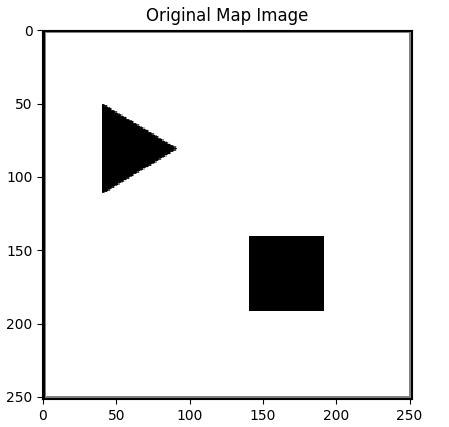
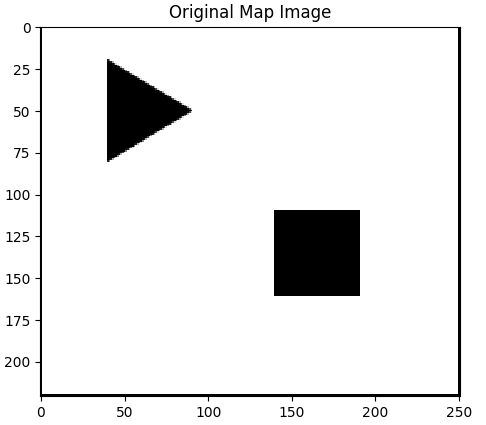
Last map was done. Now time to analyze the results.

Changed region(s): [[0.0, 0.0, 0.9666, 1.0], [0.2183, 0.1224, 0.4053, 0.4588], [0.5301, 0.4894, 0.7483, 0.7341]]

diff --git a/code/main.py b/code/main.py
@@ -1,6 +1,6 @@
 # Fix OpenCv2 configuration error with ROS
-import sys
-sys.path.remove("/opt/ros/kinetic/lib/python2.7/dist-packages")
+#import sys
+#sys.path.remove("/opt/ros/kinetic/lib/python2.7/dist-packages")
 
 import bcd  #The Boustrophedon Cellular decomposition
 import dfs  #The Depth-first Search Algorithm
@@ -16,7 +16,7 @@ import timeit
 if __name__ == '__main__':
     
     # Read the original data
-    original_map = bcd.cv2.imread("../data/real_ex3.png")
+    original_map = bcd.cv2.imread("../data/real_ex4.png")
     #original_map = cv2.imread("../data/example2.png")[:,0:350]
     
     # Show the original data
@@ -99,14 +99,37 @@ if __name__ == '__main__':
         7: [5,6]
     }
 
+    graph4 = { #graph4  is for real_ex4.png
+        1: [2,3],
+        2: [1,4],
+        3: [1,4],
+        4: [2,3,5,6],
+        5: [4,7],
+        6: [4,7],
+        7: [5,6,8,9],
+        8: [7,10],
+        9: [7,10],
+        10: [8,9,11,12],
+        11: [10,13],
+        12: [10,13],
+        13: [11,12,14,15],
+        14: [13,16],
+        15: [13,16],
+        16: [14,15,17,18],
+        17: [16,19],
+        18: [16,19],
+        19: [17,18]
+    }
+
+
     ########## DFS
     cleaned_DFS = [] #Keeps cleaned cell numbers in order
     iter_number = 1000
     #starting_cell_number = move_boustrophedon.randint(1,len(cell_numbers))
-    starting_cell_number = 5
+    starting_cell_number = 10
     print("Starting cell number: ", starting_cell_number)
-    exec_time_dfs = timeit.timeit('dfs.dfs(cleaned_DFS, graph3, starting_cell_number)', \
-        'from __main__ import dfs, cleaned_DFS, graph3, starting_cell_number',number = iter_number)
+    exec_time_dfs = timeit.timeit('dfs.dfs(cleaned_DFS, graph4, starting_cell_number)', \
+        'from __main__ import dfs, cleaned_DFS, graph4, starting_cell_number',number = iter_number)
     exec_time_dfs = exec_time_dfs/iter_number
     print("DFS Cleaned cells in order", cleaned_DFS)
     print("Execution time of dfs in seconds: ", exec_time_dfs)
@@ -124,8 +147,8 @@ if __name__ == '__main__':
     iter_number = 1000
     #starting_cell_number = move_boustrophedon.randint(1,len(cell_numbers))
     print("Starting cell number: ", starting_cell_number)
-    exec_time_bfs = timeit.timeit('bfs.bfs(cleaned_BFS, graph3, starting_cell_number)', \
-        'from __main__ import bfs, cleaned_BFS, graph3, starting_cell_number',number = iter_number)
+    exec_time_bfs = timeit.timeit('bfs.bfs(cleaned_BFS, graph4, starting_cell_number)', \
+        'from __main__ import bfs, cleaned_BFS, graph4, starting_cell_number',number = iter_number)
     exec_time_bfs = exec_time_bfs/iter_number
     print("BFS Cleaned cells in order", cleaned_BFS)
     print("Execution time of bfs in seconds: ", exec_time_bfs)
@@ -226,9 +249,9 @@ if __name__ == '__main__':
 
     
     ########## Path Tracking
-    # DFS
+    ## DFS
     #iter_number = 1
-    #dfs_path = [5, 4, 2, 1, 3, 6, 7]
+    #dfs_path = [10, 8, 7, 5, 4, 2, 1, 3, 6, 9, 11, 13, 12, 14, 16, 15, 17, 19, 18]
     #path_time_dfs = timeit.timeit('move_boustrophedon.track_paths(original_map,dfs_path,cell_boundaries,non_neighboor_cell_numbers)', \
     #                               'from __main__ import move_boustrophedon, \
     #                               dfs_path, original_map, cell_boundaries,non_neighboor_cell_numbers',number = iter_number)
@@ -238,7 +261,7 @@ if __name__ == '__main__':
 
     ### BFS
     #iter_number = 1
-    #bfs_path = [5, 4, 7, 2, 3, 6, 1]
+    #bfs_path = [10, 8, 9, 11, 12, 7, 13, 5, 6, 14, 15, 4, 16, 2, 3, 17, 18, 1, 19]
     #path_time_bfs = timeit.timeit('move_boustrophedon.track_paths(original_map,bfs_path,cell_boundaries,non_neighboor_cell_numbers)', \
     #                               'from __main__ import move_boustrophedon, \
     #                               bfs_path, original_map, cell_boundaries,non_neighboor_cell_numbers',number = iter_number)
@@ -247,7 +270,7 @@ if __name__ == '__main__':
 
     ## Genetic algorithm
     #iter_number = 1
-    #ga_path = [5, 2, 4, 3, 7, 6, 1]
+    #ga_path = [10, 5, 15, 1, 11, 6, 4, 2, 13, 8, 18, 17, 3, 12, 7, 19, 14, 16, 9]
     #path_time_ga = timeit.timeit('move_boustrophedon.track_paths(original_map,ga_path,cell_boundaries,non_neighboor_cell_numbers)', \
     #                               'from __main__ import move_boustrophedon, \
     #                               ga_path, original_map, cell_boundaries,non_neighboor_cell_numbers',number = iter_number)
@@ -257,7 +280,7 @@ if __name__ == '__main__':
 
     # Simulated Annealing
     #iter_number = 1
-    #sa_path = [5, 6, 4, 7, 3, 2, 1]
+    #sa_path = [10, 3, 19, 17, 14, 8, 7,4, 15, 18, 9, 6, 13, 11, 16, 12, 2, 5, 1]
     #path_time_sa = timeit.timeit('move_boustrophedon.track_paths(original_map,sa_path,cell_boundaries,non_neighboor_cell_numbers)', \
     #                               'from __main__ import move_boustrophedon, \
     #                               sa_path, original_map, cell_boundaries,non_neighboor_cell_numbers',number = iter_number)
@@ -267,7 +290,7 @@ if __name__ == '__main__':
     
     ## MIMIC
     iter_number = 1
-    mimic_path = [5, 1, 4, 7, 6, 2, 3]
+    mimic_path = [10, 19, 11, 1, 4, 18, 8, 5,17, 3, 6, 2, 13, 14, 15, 9, 16, 12, 7]
     path_time_mimic = timeit.timeit('move_boustrophedon.track_paths(original_map,mimic_path,cell_boundaries,non_neighboor_cell_numbers)', \
                                    'from __main__ import move_boustrophedon, \
                                    mimic_path, original_map, cell_boundaries,non_neighboor_cell_numbers',number = iter_number)
